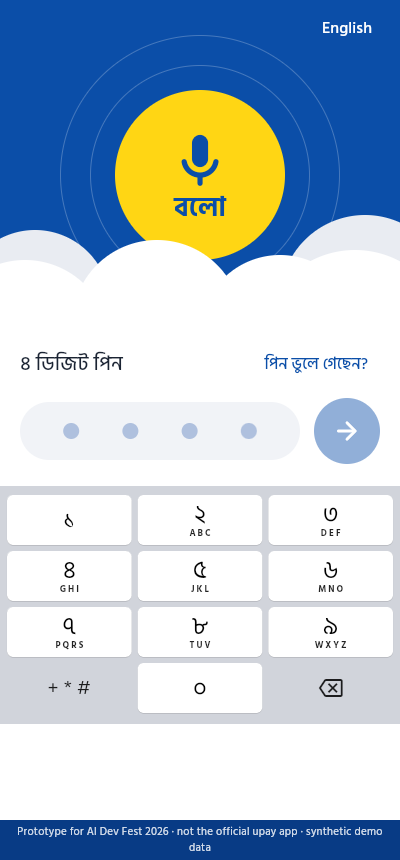
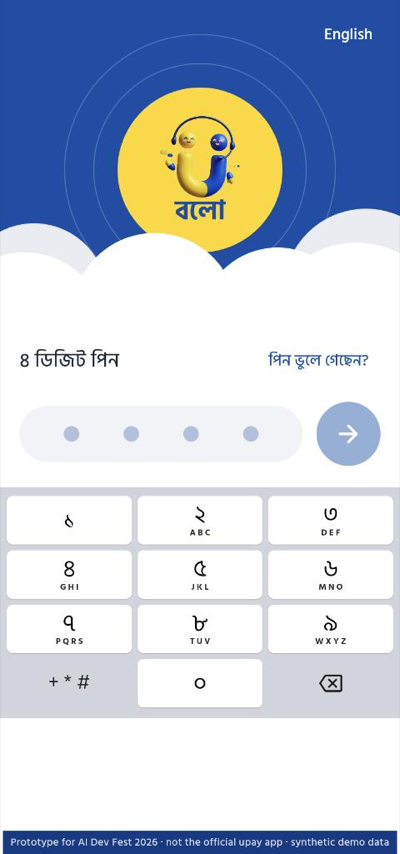
README: upay knowledge base (RAG) and new screenshots
- Feature row and section for the RAG agent: source, retrieval, LLM and
  no-LLM paths, /api/kb/search, limits
- New screenshots: mascot login and home, agent answering PIN reset and
  cash-out charges from upay's website, Pay Bill with saved accounts
- Test count 173, refresh command, repo layout (kb, wallet, upay_kb,
  scripts, loadtest)

diff --git a/README.md b/README.md
@@ -19,8 +19,10 @@ Prototype by **Team WALL-E** (Shagato Chowdhury, Umme Munia) for the AI Dev Fest
 | ![](docs/screenshots/03_green.png) | ![](docs/screenshots/09_pin.png) | ![](docs/screenshots/10_done.png) |
 | **Which Rahim?** | **Extra zero?** | **Scam interview** |
 | ![](docs/screenshots/04_which_rahim.png) | ![](docs/screenshots/05_extra_zero.png) | ![](docs/screenshots/06_interview.png) |
-| **Fake upay call (RED)** | **Hold before PIN** | |
-| ![](docs/screenshots/07_red.png) | ![](docs/screenshots/08_hold.png) | |
+| **Fake upay call (RED)** | **Hold before PIN** | **Pay Bill (saved accounts)** |
+| ![](docs/screenshots/07_red.png) | ![](docs/screenshots/08_hold.png) | ![](docs/screenshots/13_pay_bill.png) |
+| **Agent: "how do I reset my PIN?"** | **Agent: cash-out charges** | |
+| ![](docs/screenshots/11_agent_rag.png) | ![](docs/screenshots/12_agent_charges.png) | |
 
 ## 1. Project overview
 
@@ -52,6 +54,7 @@ Prototype by **Team WALL-E** (Shagato Chowdhury, Umme Munia) for the AI Dev Fest
 | Ops dashboard | Decisions by risk level, transfers cancelled after a warning, money protected, scam patterns seen, and model health: input drift (PSI) against training, RED overrides, warnings users reported wrong. See [`docs/FAILURE_POLICY.md`](docs/FAILURE_POLICY.md) |
 | Accuracy report | Measured parser accuracy and scam-shield metrics, shown live in the app |
 | Bolo agent (every page) | Voice/text agent that sees the page on screen and the last 3 pages, and acts through the same code as the buttons. LLM planner when a key is set, Bangla/Banglish/English keyword router otherwise; every plan passes a safety guard |
+| upay knowledge (RAG) | The agent answers questions about upay itself (charges, limits, PIN reset, registration, cash in/out, remittance, offers, helpline, terms, privacy) from **upay's public website**: 174 pages scraped into 458 Bangla/English passages, BM25 retrieval that works in Bangla, Banglish and English, cited passages for the LLM, and the best lines plus the source without it. Never guesses a charge or limit |
 | Human handoff + support console | "Talk to a person", a reported scam or lost money, or two misses in a row hand the chat to staff at `/console`, with the bot context and the customer's scam checks. Staff can stop a pending transfer, never send money |
 | Natural voice | Gemini TTS through the server (same key as the LLM), best installed device voice as fallback |
 
@@ -60,6 +63,17 @@ Prototype by **Team WALL-E** (Shagato Chowdhury, Umme Munia) for the AI Dev Fest
 The centre mic (or the floating orb on other pages) opens a bottom panel that works on every page. The app tells the agent what is on screen (page, step, a short summary, and the actions its buttons offer right now) plus the last 3 pages; the agent answers in Bangla or English and the app runs the returned actions through the same methods as its buttons: open a page, go back, settings, language, show/hide balance, switch demo user, call simulation, start a transfer, pick an amount or recipient, answer the scam questions, confirm, cancel, repeat. Try: "ড্যাশবোর্ড খোলো", "এই পেজে কী আছে?", "আগের পেজে কী ছিল?", "dokaner ta", "abar pathao".
 
 Safety rules live in the server's `sanitize()` and apply to every plan, LLM or rules: there is no action for entering a PIN, using biometrics, ticking the RED warning box or skipping a hold; page actions run only when the page offers them (the app never offers "confirm" on a RED review); money-moving actions need the user's own words and never run on automatic follow-ups; interview answers are always the user's raw words; a PIN or OTP said aloud gets a warning and no action.
+
+### upay knowledge base (RAG)
+
+Ask the agent "পিন ভুলে গেলে কিভাবে রিসেট করব?", "cash out er charge koto?", "send money limit koto" or "হেল্পলাইন নম্বর কত" on any page.
+
+- **Source:** `scripts/scrape_upay.py` crawls www.upaybd.com and the public CMS it loads from (`api.upaybd.com/api/v2/pages/<slug>`): services and how-tos, the limits tables, the charge calculator (one passage per service), the FAQ, contact details, offers, terms and the privacy policy. Output: `data/upay_kb/kb.jsonl` (one passage per line with its URL, section and category), `manifest.json` (crawl date, page list) and the raw page JSON in `pages/` for audits. Re-run it to refresh (about 10 seconds).
+- **Retrieval:** `api/app/core/kb.py`, BM25 over the parsers' normalised tokens, light Bangla suffix stripping and a small Bangla/Banglish → English glossary, so a question in any script reaches both halves of a bilingual passage. No embeddings and no new dependencies; it loads in about 0.3 s.
+- **With an LLM:** the top 5 passages go to the planner as `upay_knowledge`; it must answer only from them, quote numbers exactly, put the refs it used in `sources` and suggest the helpline 16268 when they don't answer. Only refs it was actually given become citations.
+- **Without an LLM:** the keyword router answers a question about upay (a question word plus a product word, no amount, no phone number) with the best matching lines and "Source: upay's website". Commands such as "ammu ke 500 pathao" or "cash out 500" still start a transfer, and a PIN said aloud is still caught first.
+- **API:** `GET /api/kb/search?q=...` returns the matching passages (signed-in users); `/api/health` reports `kb_chunks`.
+- **Limits:** offers and charges change, so answers cite the page and the crawl date is in the manifest. The charge calculator is English only, so a Bangla charge question can surface a related Bangla page first; the LLM path sees both.
 
 ### Human handoff and the support console
 
@@ -81,10 +95,11 @@ The demo runs Gemini for the second parsing path, the agent planner and the spok
 | Backend API | Python 3.11, FastAPI, Pydantic, Uvicorn |
 | ML | scikit-learn (gradient boosting with sigmoid calibration, logistic regression fallback), SHAP, NumPy, joblib; matplotlib for the training report |
 | Text matching | RapidFuzz |
+| Knowledge (RAG) | Scraper with httpx over upay's public site and CMS; BM25 retrieval in pure Python (`api/app/core/kb.py`) |
 | LLM (optional) | Anthropic Python SDK (`claude-opus-5-5` by default), OpenAI or Gemini via REST (Gemini in the demo; a local model in production, see above) |
 | Storage | SQLite (prototype) |
 | Security | Signed session tokens (every request acts as the signed-in user, never a user id in the body), bcrypt-hashed PINs with a per-account lock after 5 wrong tries, biometric approvals verified as ECDSA P-256 signatures from a hardware-backed device key (`biometric_signature`), named support-console accounts, demo-only controls behind `DEMO_MODE` |
-| Tests | pytest (93 tests), parser evaluation script |
+| Tests | pytest (173 tests), parser evaluation script, k6 load test |
 | Deploy | Docker, Docker Compose, Caddy (automatic HTTPS) |
 
 ## 4. Requirements
@@ -192,7 +207,8 @@ Unlock the app with the **demo PIN `1234`**. Use the settings button (top right 
 ## 9. Testing
 
 ```bash
-cd api && python -m pytest -q          # 93 tests: parser, scam matcher, API flow, sessions and PIN lock, signed biometrics, agent rules and safety, handoff, TTS
+cd api && python -m pytest -q          # 173 tests: parser, scam matcher, API flow, sessions and PIN lock, signed biometrics, agent rules and safety, handoff, TTS, upay knowledge base, wallet adapter
+python scripts/scrape_upay.py          # refresh the upay knowledge base from upaybd.com → data/upay_kb/
 python ml/evaluate_parser.py           # labelled command set → model/parser_metrics.json
 python ml/train_risk.py                # simulates timelines, trains, compares → model/risk_metrics.json
 docker run --rm -i -e BASE=http://host.docker.internal:8000 -e VUS=50 grafana/k6 run - < loadtest/flow.js   # load test, see docs/SCALE.md
@@ -246,10 +262,14 @@ Calibration plot: [`docs/img/calibration.png`](docs/img/calibration.png). We als
 
 ```
 api/            FastAPI backend (app/core: parser, numbers, contacts, scam, features, risk, llm,
-                agent, pinguard, tts; app/handoff.py: human handoff + support console API)
+                agent, kb (upay knowledge retrieval), pinguard, tts; app/handoff.py: human handoff +
+                support console API; app/wallet: local ledger and mock upay API adapters)
 app/            Flutter app (iOS, Android, Web); lib/agent: Bolo agent; lib/console: support console
 ml/             generate_data.py, simulate.py (wallet timelines), train_risk.py, evaluate_parser.py
-data/           seed.json (synthetic), scam_phrases.json, test_commands.json
+data/           seed.json (synthetic), scam_phrases.json, test_commands.json,
+                upay_kb/ (scraped upay website: kb.jsonl, manifest.json, raw pages)
+scripts/        scrape_upay.py (builds data/upay_kb)
+loadtest/       k6 load test (flow.js)
 model/          risk_model.joblib, risk_metrics.json, parser_metrics.json
 deploy/         Dockerfile, Caddyfile, nginx site (hosts that already run nginx)
 docs/           Bolo-upay-Report-Team-WALL-E.pdf (project report), report/ (LaTeX source), DEPLOYMENT.md,
